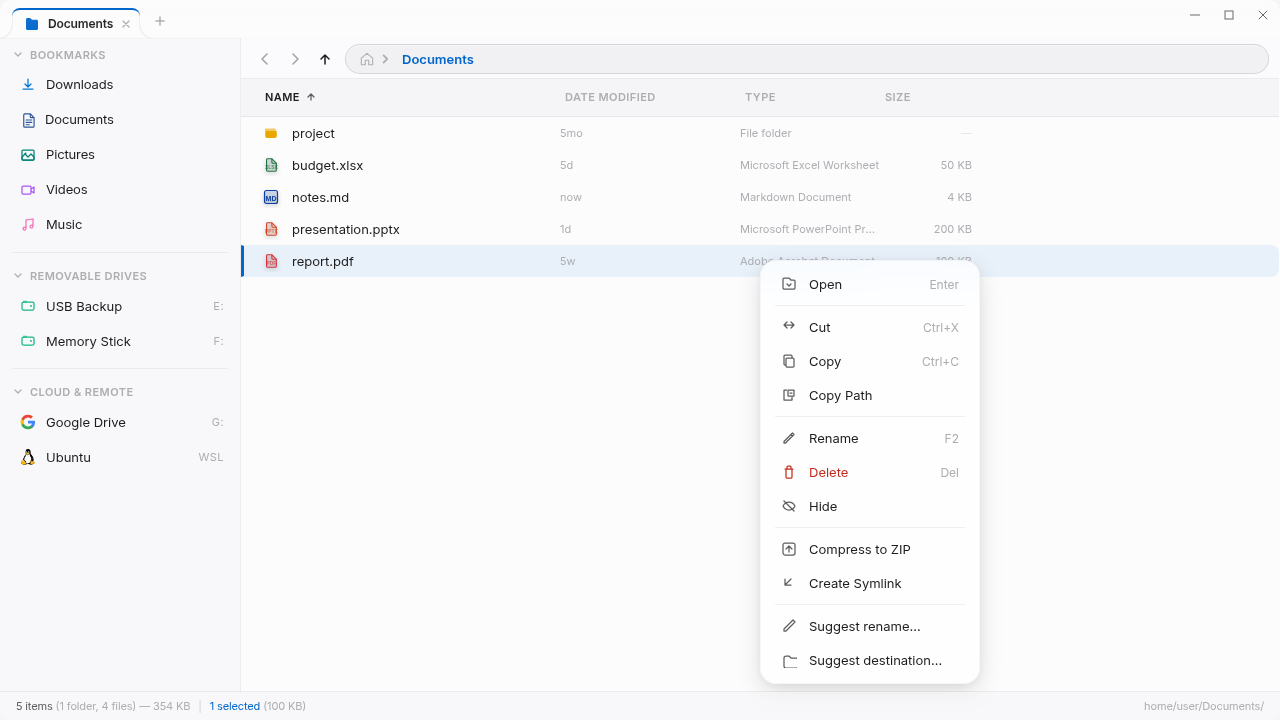
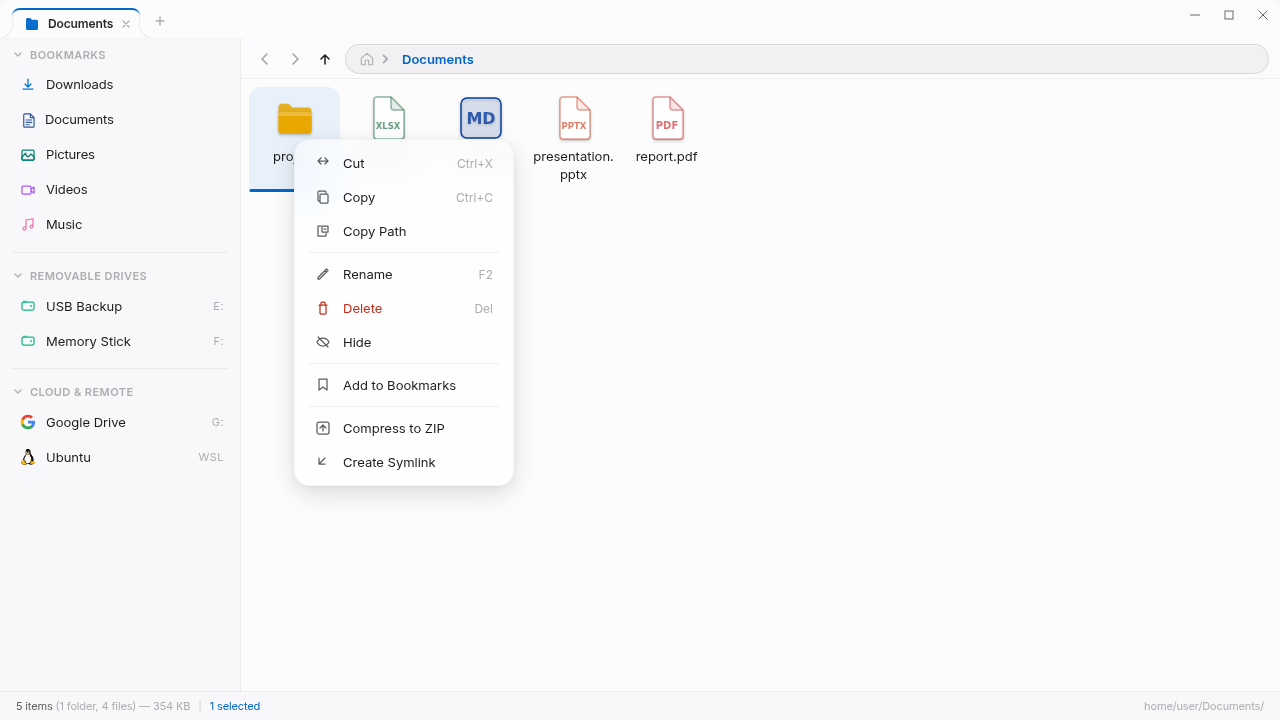
test: isolate copy path coverage and refresh evidence

diff --git a/e2e/copy-path-context-menu.spec.ts b/e2e/copy-path-context-menu.spec.ts
@@ -1,0 +1,67 @@
+/**
+ * E2E: Copy Path context-menu action (#606).
+ *
+ * Covers the observable text-clipboard result for files and folders in every
+ * supported view mode while keeping the pre-existing context-menu suite
+ * immutable.
+ */
+import { test, expect, type Page } from "./fixtures";
+import { VIEW_MODES, waitForEntries, switchViewMode } from "./helpers";
+
+async function rightClick(page: Page, name: string) {
+  const item = page.locator(".entry-item", { hasText: name }).first();
+  await item.click();
+  await expect(item).toHaveClass(/selected/);
+  await item.click({ button: "right" });
+  const menu = page.locator(".context-menu");
+  await menu.waitFor({ state: "visible", timeout: 2000 });
+  return menu;
+}
+
+for (const viewMode of VIEW_MODES) {
+  test.describe(`Copy Path [${viewMode}]`, () => {
+    for (const [name, expectedPath] of [
+      ["report.pdf", "/home/user/Documents/report.pdf"],
+      ["project", "/home/user/Documents/project"],
+    ]) {
+      test(`writes ${name}'s full path to the text clipboard`, async ({
+        page,
+        context,
+        browserName,
+      }) => {
+        test.skip(
+          browserName === "webkit",
+          "WebKit does not support Playwright clipboard permissions",
+        );
+        await context.grantPermissions(["clipboard-read", "clipboard-write"]);
+        await page.goto("/?path=/home/user/Documents");
+        await waitForEntries(page);
+        if (viewMode !== "details") await switchViewMode(page, viewMode);
+
+        const menu = await rightClick(page, name);
+        await expect(menu.getByText("Copy Path", { exact: true })).toBeVisible();
+        await menu.getByText("Copy Path", { exact: true }).click();
+
+        await expect(page.locator(".toast.clipboard")).toBeVisible();
+        await expect
+          .poll(() => page.evaluate(() => navigator.clipboard.readText()))
+          .toBe(expectedPath);
+      });
+    }
+  });
+}
+
+test("existing folder actions remain available and Rename still starts editing", async ({ page }) => {
+  await page.goto("/?path=/home/user/Documents");
+  await waitForEntries(page);
+  await switchViewMode(page, "tiles");
+
+  const menu = await rightClick(page, "project");
+  for (const action of ["Cut", "Copy", "Rename", "Delete", "Add to Bookmarks"]) {
+    await expect(menu.getByText(action, { exact: true })).toBeVisible();
+  }
+  await page.screenshot({ path: "evidence/ac-2-existing-context-menu-actions.png" });
+
+  await menu.getByText("Rename", { exact: true }).click();
+  await expect(page.locator(".rename-input")).toHaveValue("project");
+});

diff --git a/e2e/context-menu-actions.spec.ts b/e2e/context-menu-actions.spec.ts
@@ -1,11 +1,17 @@
 /**
  * E2E: second-tier context-menu actions (#296).
  *
- * Covers the archive actions, file copy→paste round-trip, and copying a
- * selected entry's filesystem path to the text clipboard.
+ * Covers the archive actions and the copy→paste path round-trip.
+ *
+ * Note on "copy path": there is no context-menu action (or command) that
+ * writes a file's path string to the text clipboard in this codebase — the
+ * only "copy" is the file clipboard (Cut/Copy → paste). So instead of a
+ * non-existent feature, the copy test asserts the real outcome: Copy captures
+ * the entry's full path so a subsequent Paste in another directory recreates
+ * it there. open-with / set-as-wallpaper are native-only and skipped.
  */
 import { test, expect, type Page } from "./fixtures";
-import { VIEW_MODES, waitForEntries, switchViewMode, pressShortcut } from "./helpers";
+import { waitForEntries, pressShortcut } from "./helpers";
 
 async function rightClick(page: Page, name: string) {
   const item = page.locator(".entry-item", { hasText: name }).first();
@@ -90,35 +96,3 @@ test.describe("Copy → Paste round-trips the full path", () => {
       .toContain("report.pdf");
   });
 });
-
-for (const viewMode of VIEW_MODES) {
-  test.describe(`Copy Path [${viewMode}]`, () => {
-    for (const [name, expectedPath] of [
-      ["report.pdf", "/home/user/Documents/report.pdf"],
-      ["project", "/home/user/Documents/project"],
-    ]) {
-      test(`writes ${name}'s full path to the text clipboard`, async ({
-        page,
-        context,
-        browserName,
-      }) => {
-        test.skip(browserName === "webkit", "WebKit does not support Playwright clipboard permissions");
-        await context.grantPermissions(["clipboard-read", "clipboard-write"]);
-        await page.goto("/?path=/home/user/Documents");
-        await waitForEntries(page);
-        if (viewMode !== "details") await switchViewMode(page, viewMode);
-
-        const menu = await rightClick(page, name);
-        await expect(menu.getByText("Copy Path", { exact: true })).toBeVisible();
-        if (viewMode === "details" && name === "report.pdf") {
-          await page.screenshot({ path: "evidence/ac-1-copy-path-menu.png" });
-          await page.screenshot({ path: "evidence/ac-2-existing-context-menu-actions.png" });
-        }
-        await menu.getByText("Copy Path", { exact: true }).click();
-
-        await expect(page.locator(".toast.clipboard")).toBeVisible();
-        await expect.poll(() => page.evaluate(() => navigator.clipboard.readText())).toBe(expectedPath);
-      });
-    }
-  });
-}
